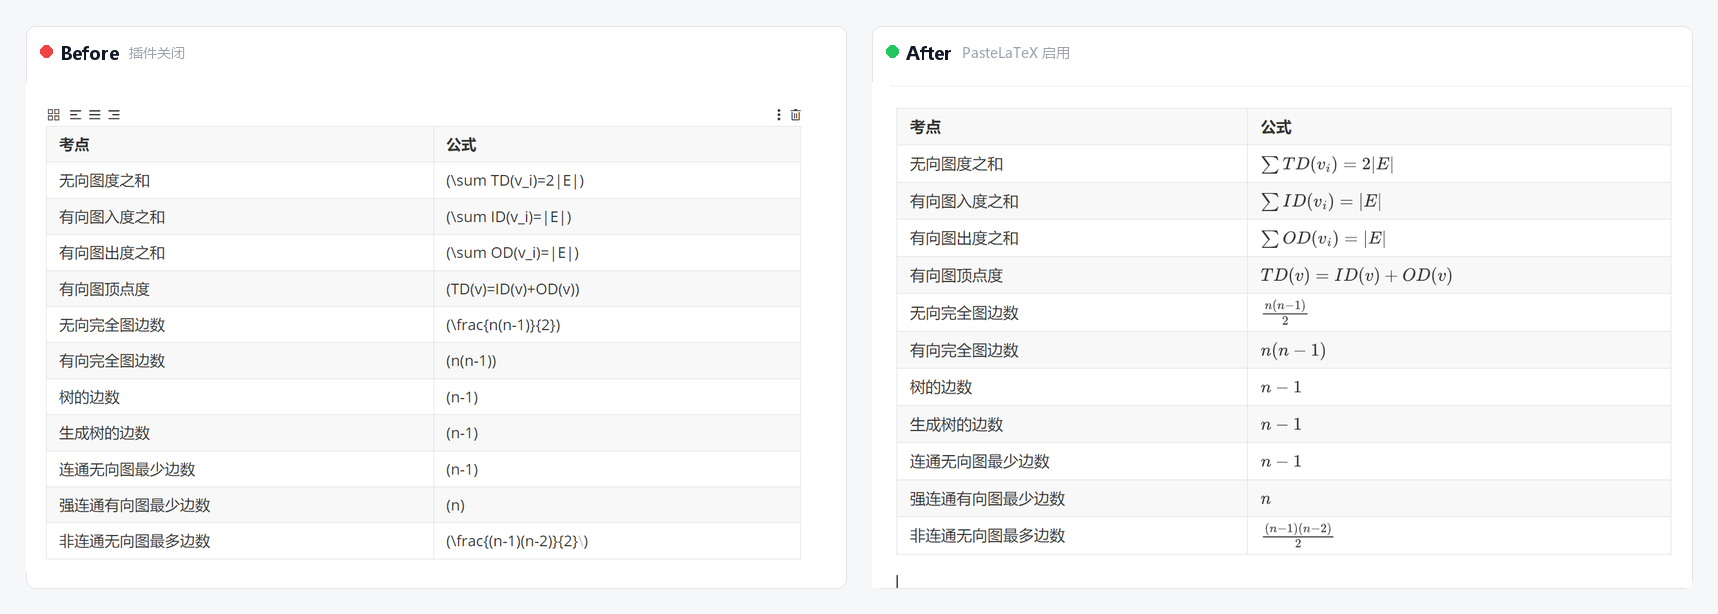
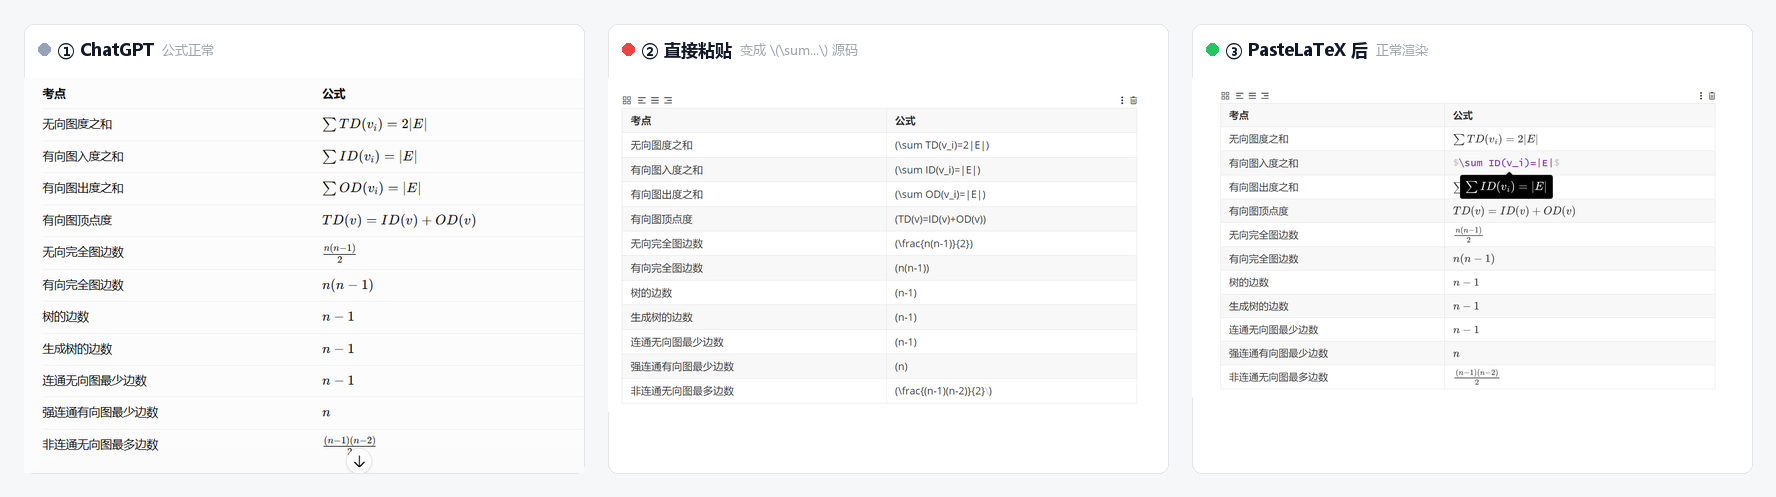
docs: three-panel real-world comparison (ChatGPT / plain paste / after)

diff --git a/README.md b/README.md
@@ -39,6 +39,10 @@ powershell -NoProfile -ExecutionPolicy Bypass -File pastelatex/install.ps1
 
 > 如果你在其他平台遇到问题，欢迎提 Issue，附上原始公式和期望效果。
 
+真实场景（ChatGPT → 直接粘贴 → PasteLaTeX 处理后）：
+
+![真实场景对比](docs/before-after-real.png)
+
 ## 解决什么问题
 
 DeepSeek / ChatGPT 网页端复制出来的公式，HTML 里是这样的：

diff --git a/README.en.md b/README.en.md
@@ -36,6 +36,10 @@ Copying from the web UI of these products into Typora has been verified:
 | Gemini | ✅ | inline and display math |
 | Doubao | ✅ | inline math |
 
+Real world (ChatGPT → plain paste → after PasteLaTeX):
+
+![real world](docs/before-after-real.png)
+
 ## Install
 
 Requires Typora and [typora-community-plugin](https://github.com/typora-community-plugin/typora-community-plugin).
